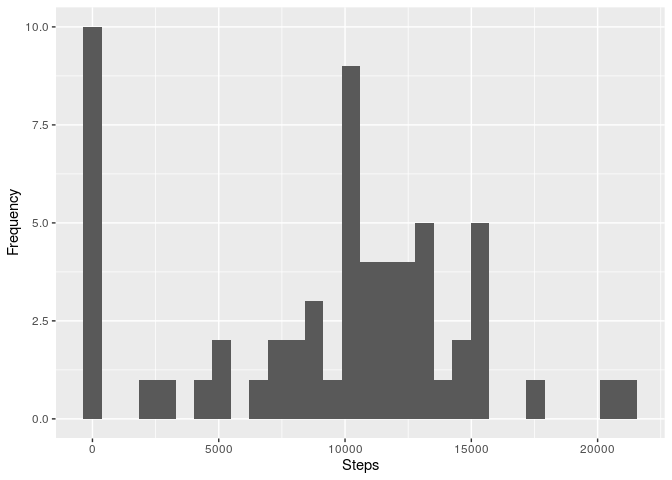
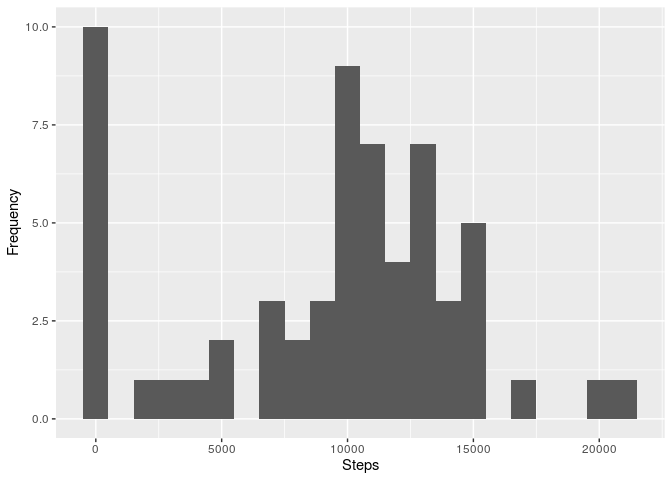
feat Improve histogram visibility adjusting binwidth

diff --git a/PA1_template.html b/PA1_template.html
@@ -383,9 +383,8 @@ df_sum_per_day = summarise_all( df, sum,na.rm=TRUE )
 total_steps_per_day &lt;- df_sum_per_day[2]
 
 #       2.1- Make a histogram of the total number of steps taken each day
-qplot( total_steps_per_day$steps, geom=&quot;histogram&quot;, xlab=&quot;Steps&quot;, ylab=&quot;Frequency&quot; )</code></pre>
-<pre><code>## `stat_bin()` using `bins = 30`. Pick better value with `binwidth`.</code></pre>
[1 lines of base64/hex data omitted]
+qplot( total_steps_per_day$steps, geom=&quot;histogram&quot;, xlab=&quot;Steps&quot;, ylab=&quot;Frequency&quot;, binwidth=1000 )</code></pre>
[1 lines of base64/hex data omitted]
 <pre class="r"><code>#       2.3- Calculate and report the mean and median of the total number of steps taken per day
 mean_steps_per_day &lt;- mean( df_sum_per_day$steps )
 median_steps_per_day &lt;- median( df_sum_per_day$steps )</code></pre>
@@ -410,31 +409,14 @@ total_nas = sum( is.na(df$steps) )</code></pre>
 <p><strong>This dataset has a total of 2304 rows with NA values</strong></p>
 <pre class="r"><code>#       4.2 Devise a strategy to fill NA values
 # This function will fill NA values with the mean of steps from the current day
-fill_with_mean &lt;- function( df_by_date ){
-    
-    dates &lt;- unique( df_by_date$date )
-    for( curr_date in dates ){
-        indexes &lt;- which( df_by_date$date == curr_date )
-        # Get the mean of current date
-        date_mean = mean( df_by_date$steps[ indexes ], na.rm=TRUE )
-        
-        if( is.na( date_mean ) )
-            date_mean = 0
-        
-        # Get NA's indexes
-        nas_indexes = which( is.na( df_by_date$steps[ indexes ] ) )
-        df_by_date$steps[indexes][ nas_indexes ] = date_mean
-    }
-    df_by_date
-}
 #       4.3- Create a new dataset that is equal to the original dataset but with the missing data filled in.
 #df_filled &lt;- fill_with_mean(df)
 df_filled = df
 df_filled$steps &lt;- with(df, impute(steps, mean))
 #       4.4.1- Make a histogram of the total number of steps taken each day
 filled_sum_per_day = summarise_all( df_filled, sum,na.rm=TRUE )
-qplot( filled_sum_per_day$steps, geom=&quot;histogram&quot;, xlab=&quot;Steps&quot;, ylab=&quot;Frequency&quot;, main=&quot;Average Number of Steps After Filling NAs&quot;, bins=53 )</code></pre>
[1 lines of base64/hex data omitted]
+qplot( filled_sum_per_day$steps, geom=&quot;histogram&quot;, xlab=&quot;Steps&quot;, ylab=&quot;Frequency&quot;, main=&quot;Average Number of Steps After Filling NAs&quot;, binwidth=1000 )</code></pre>
[1 lines of base64/hex data omitted]
 <pre class="r"><code>#       4.4.2- Calculate and report the mean and median total number of steps taken per day.
 filled_steps_mean &lt;- mean( filled_sum_per_day$steps )
 filled_steps_median &lt;- median( filled_sum_per_day$steps )
@@ -447,7 +429,7 @@ print( comparission_table )</code></pre>
 <pre><code>##            Mean   Median
 ## no_NAs  9354.23 10395.00
 ## filled 10766.19 10766.19</code></pre>
-<p><strong>Filling the NA entries of this dataset with the day mean had no impact in the mean/median of the steps taken per day.</strong></p>
+<p><strong>Filling the NA entries of this dataset with the day mean had a slighty impact on the mean/median of the steps taken per day.</strong></p>
 </div>
 <div id="are-there-differences-in-activity-patterns-between-weekdays-and-weekends" class="section level2">
 <h2>5- Are there differences in activity patterns between weekdays and weekends?</h2>

diff --git a/PA1_template.md b/PA1_template.md
@@ -27,11 +27,7 @@ df_sum_per_day = summarise_all( df, sum,na.rm=TRUE )
 total_steps_per_day <- df_sum_per_day[2]
 
 #       2.1- Make a histogram of the total number of steps taken each day
-qplot( total_steps_per_day$steps, geom="histogram", xlab="Steps", ylab="Frequency" )
-```
-
-```
-## `stat_bin()` using `bins = 30`. Pick better value with `binwidth`.
+qplot( total_steps_per_day$steps, geom="histogram", xlab="Steps", ylab="Frequency", binwidth=1000 )
 ```
 
 ![](PA1_template_files/figure-html/unnamed-chunk-1-1.png)<!-- -->
@@ -72,30 +68,13 @@ total_nas = sum( is.na(df$steps) )
 ```r
 #       4.2 Devise a strategy to fill NA values
 # This function will fill NA values with the mean of steps from the current day
-fill_with_mean <- function( df_by_date ){
-    
-    dates <- unique( df_by_date$date )
-    for( curr_date in dates ){
-        indexes <- which( df_by_date$date == curr_date )
-        # Get the mean of current date
-        date_mean = mean( df_by_date$steps[ indexes ], na.rm=TRUE )
-        
-        if( is.na( date_mean ) )
-            date_mean = 0
-        
-        # Get NA's indexes
-        nas_indexes = which( is.na( df_by_date$steps[ indexes ] ) )
-        df_by_date$steps[indexes][ nas_indexes ] = date_mean
-    }
-    df_by_date
-}
 #       4.3- Create a new dataset that is equal to the original dataset but with the missing data filled in.
 #df_filled <- fill_with_mean(df)
 df_filled = df
 df_filled$steps <- with(df, impute(steps, mean))
 #       4.4.1- Make a histogram of the total number of steps taken each day
 filled_sum_per_day = summarise_all( df_filled, sum,na.rm=TRUE )
-qplot( filled_sum_per_day$steps, geom="histogram", xlab="Steps", ylab="Frequency", main="Average Number of Steps After Filling NAs", bins=53 )
+qplot( filled_sum_per_day$steps, geom="histogram", xlab="Steps", ylab="Frequency", main="Average Number of Steps After Filling NAs", binwidth=1000 )
 ```
 
 ![](PA1_template_files/figure-html/unnamed-chunk-4-1.png)<!-- -->
@@ -118,7 +97,7 @@ print( comparission_table )
 ## filled 10766.19 10766.19
 ```
 
-  **Filling the NA entries of this dataset with the day mean had no impact in the mean/median of the steps taken per day.**
+  **Filling the NA entries of this dataset with the day mean had a slighty impact on the mean/median of the steps taken per day.**
 
 ##             5-  Are there differences in activity patterns between weekdays and weekends?
 
